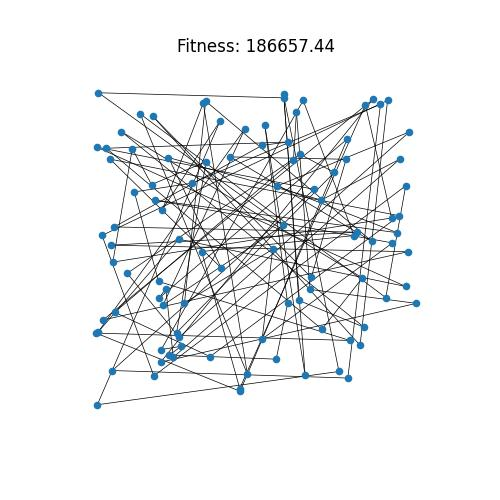
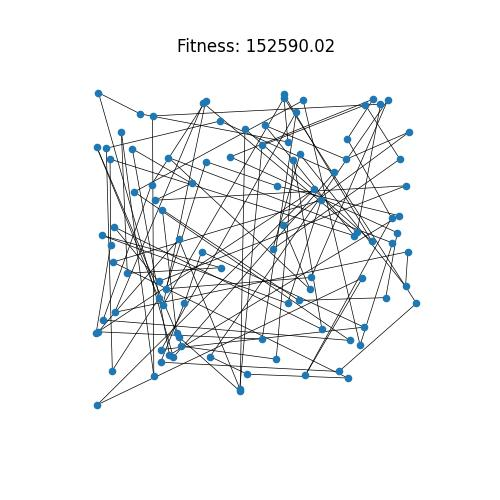
implemented closest neighbour algorithm (can optimize)

diff --git a/experiment_tsp.py b/experiment_tsp.py
@@ -1,0 +1,81 @@
+import sys
+import functions as f
+import networkx as nx
+import numpy as np
+import matplotlib.pyplot as plt
+import math
+import time
+
+# print(sys.argv[1])
+class experiment_tsp:
+
+    def __init__(self, filename, iterations=1000, interval=100, pop_size=100, mutation_rate=0.1, early_stop=False, outputs=True):
+        self.filename = filename
+        self.iterations = iterations
+        self.pop_size = pop_size
+        self.interval = interval
+        self.mutation_rate = mutation_rate
+        self.early_stop = early_stop
+        self.outputs = outputs
+    
+
+def write_gen_results(population, iter):
+    if iter == 0:   file = open("results/results.txt","w")
+    else:           file = open("results/results.txt","a")
+
+    fitnessess = population.get_fitnesses()
+    best_in, _ = population.get_best_fitness()
+    file.write(f"\nIteration {iter} results: \nBest fitness = {fitnessess[best_in]}\n")
+
+    for i in range(len(population.individuals)):
+        file.write(f"\nIndividual {i}, Fitness = {fitnessess[i]}")
+
+def iteration(population):
+    fits = population.get_fitnesses()
+
+    p1 = np.argmin(fits)
+    fits = np.delete(fits, p1)
+    p2 = np.argmin(fits)
+
+    return f.population(G, 
+    [
+        f.individual(G, population.individuals[p1].edge_list),
+        f.individual(G, population.individuals[p2].edge_list)
+    ])
+
+start = time.time()
+
+G = f.get_graph_from_file(filename)
+population = f.generate_random_population(G,pop_size)
+
+f.plot_figure(G, f.get_edge_list([]), title=filename, name="results/base")
+
+hist=[]
+for i in range(iterations):
+    write_gen_results(population,i)
+
+    next_gen = iteration(population)
+    next_gen_paths = next_gen.get_paths()
+    
+    i_best, best = next_gen.get_best_fitness()
+    hist.append(best)
+    
+    population = f.create_next_gen(next_gen, pop_size, mutation_rate=mutation_rate)
+
+    if i%interval==0:  
+        if early_stop and i>0 and best >= hist[math.floor(i-(interval/2))]: 
+            print("Progress has stagnated")
+            break
+        if outputs:
+            f.plot_figure(G, next_gen.individuals[i_best].edge_list, name="results/"+str(i))
+        print(i)
+
+write_gen_results(population,i)
+f.plot_figure(G, next_gen.individuals[i_best].edge_list, name="results/"+str(i))
+
+print(f"It took {time.time()-start:.1f} seconds")
+
+plt.clf()
+plt.plot(hist)
+plt.savefig("results/progress.png")
+plt.close()

diff --git a/functions.py b/functions.py
@@ -88,6 +88,27 @@ def get_fitness(G, edge_list):
 def get_path_from_edgelist(edge_list):
     return np.array([i[0] for i in edge_list])
 
+def closest_neighbour_alg(G):
+    N = len(G.nodes)
+    arr = np.arange(N) + 1
+
+    visit = [np.random.choice(arr)]
+
+    while len(arr) > 0:
+        next_city = 0
+        min_fit = np.inf
+        for i in arr:
+            if i not in visit:
+                fit = get_distance(G.nodes[i],G.nodes[visit[-1]])
+                if  fit < min_fit:  
+                    min_fit = fit
+                    next_city=i
+
+        if next_city == 0: break
+        visit.append(next_city)
+    
+    return np.array(visit)
+
 def swap_positions_path(path):
     pos = [0,0]
     while pos[0]==pos[1]:
